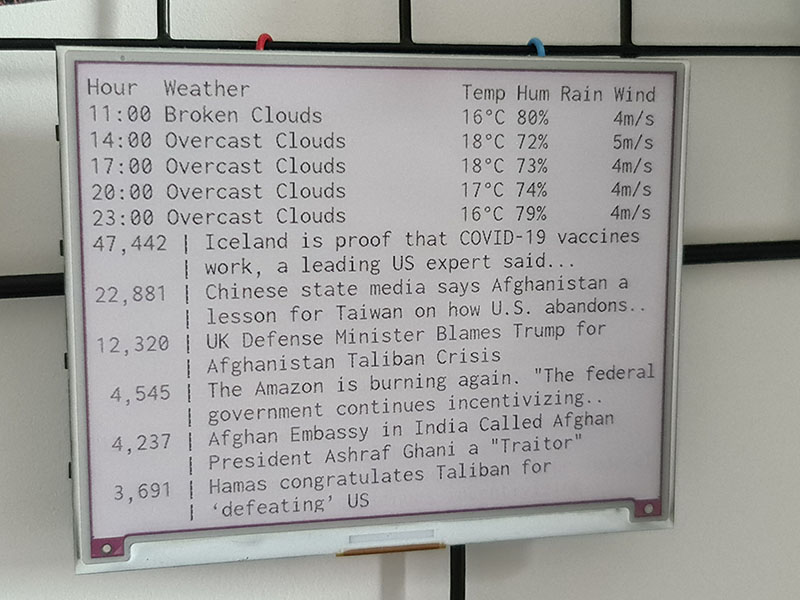
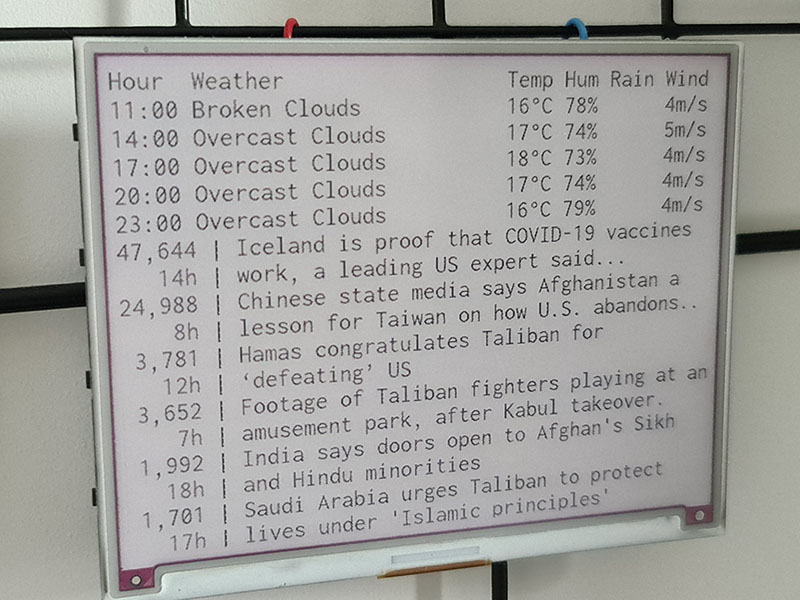
Update readme

diff --git a/README.md b/README.md
@@ -12,23 +12,23 @@ weather, would look like this:
 
 ```
 Hour  Weather                  Temp Hum Rain Wind 
-11:00 Broken Clouds            16°C 80%      4m/s 
-14:00 Overcast Clouds          18°C 72%      5m/s 
+11:00 Broken Clouds            16°C 78%      4m/s 
+14:00 Overcast Clouds          17°C 74%      5m/s 
 17:00 Overcast Clouds          18°C 73%      4m/s 
 20:00 Overcast Clouds          17°C 74%      4m/s 
 23:00 Overcast Clouds          16°C 79%      4m/s 
-47,455 | Iceland is proof that COVID-19 vaccines
-       | work, a leading US expert said...
-22,994 | Chinese state media says Afghanistan a
-       | lesson for Taiwan on how U.S. abandons..
-12,332 | UK Defense Minister Blames Trump for
-       | Afghanistan Taliban Crisis
- 4,543 | The Amazon is burning again. "The federal
-       | government continues incentivizing..
- 4,241 | Afghan Embassy in India Called Afghan
-       | President Ashraf Ghani a "Traitor"
- 3,688 | Hamas congratulates Taliban for
-       | ‘defeating’ US
+47,652 | Iceland is proof that COVID-19 vaccines
+   14h | work, a leading US expert said...
+25,095 | Chinese state media says Afghanistan a
+    8h | lesson for Taiwan on how U.S. abandons..
+ 3,787 | Hamas congratulates Taliban for
+   12h | ‘defeating’ US
+ 3,662 | Footage of Taliban fighters playing at an
+    7h | amusement park, after Kabul takeover.
+ 1,990 | India says doors open to Afghan's Sikh
+   18h | and Hindu minorities
+ 1,702 | Saudi Arabia urges Taliban to protect
+   17h | lives under 'Islamic principles'
 ```
 
 which is then output to a Inky Impression screen:
